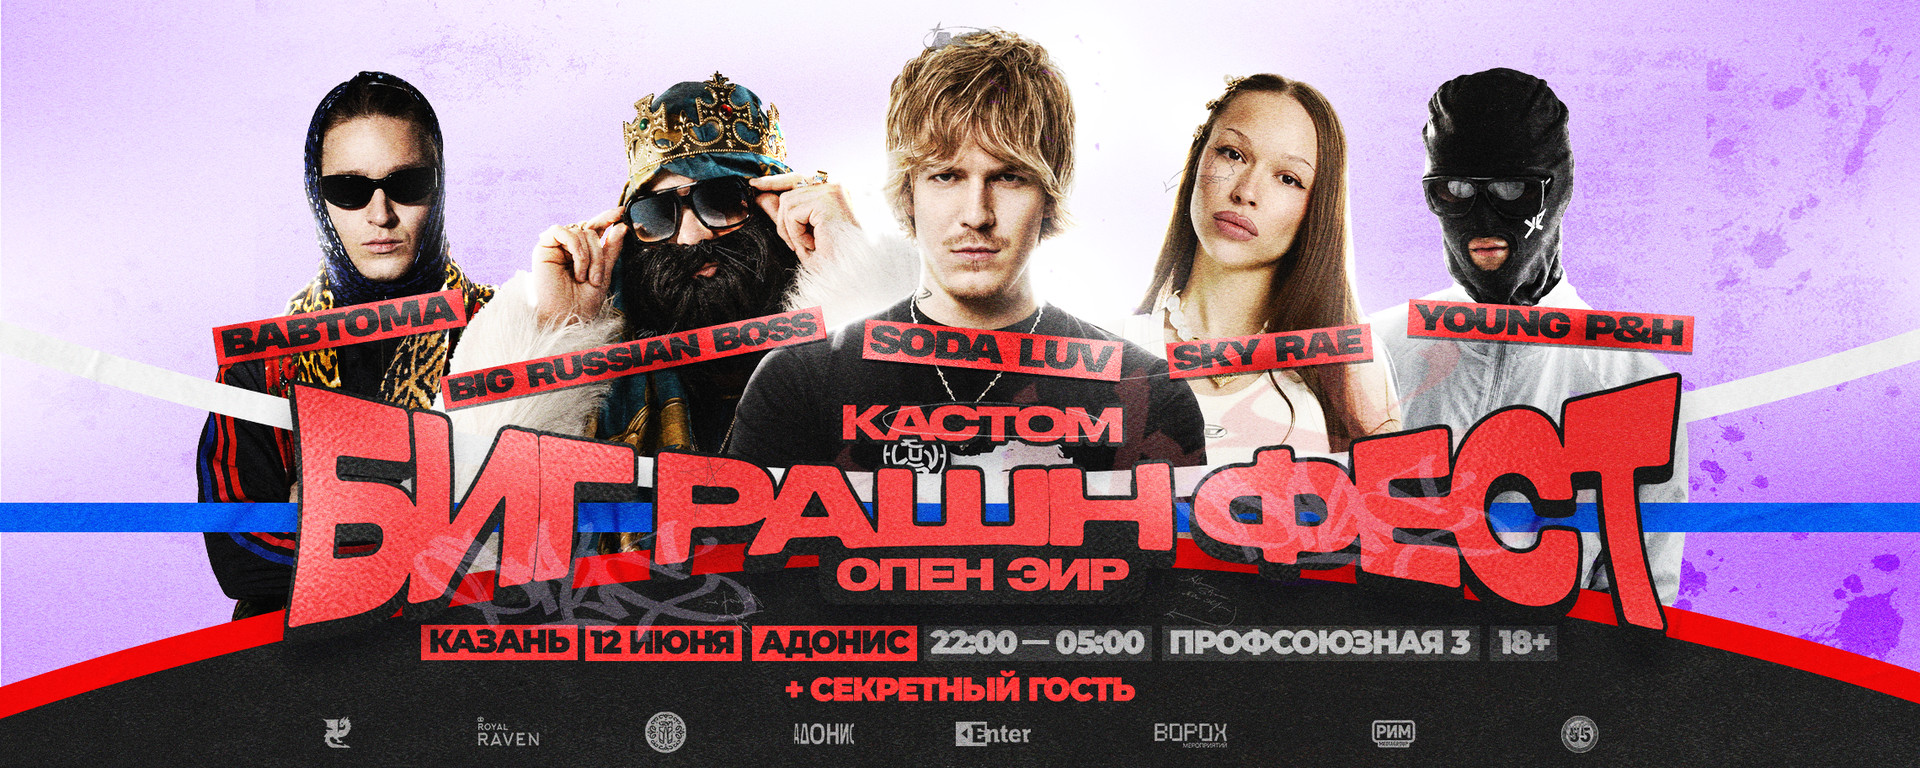
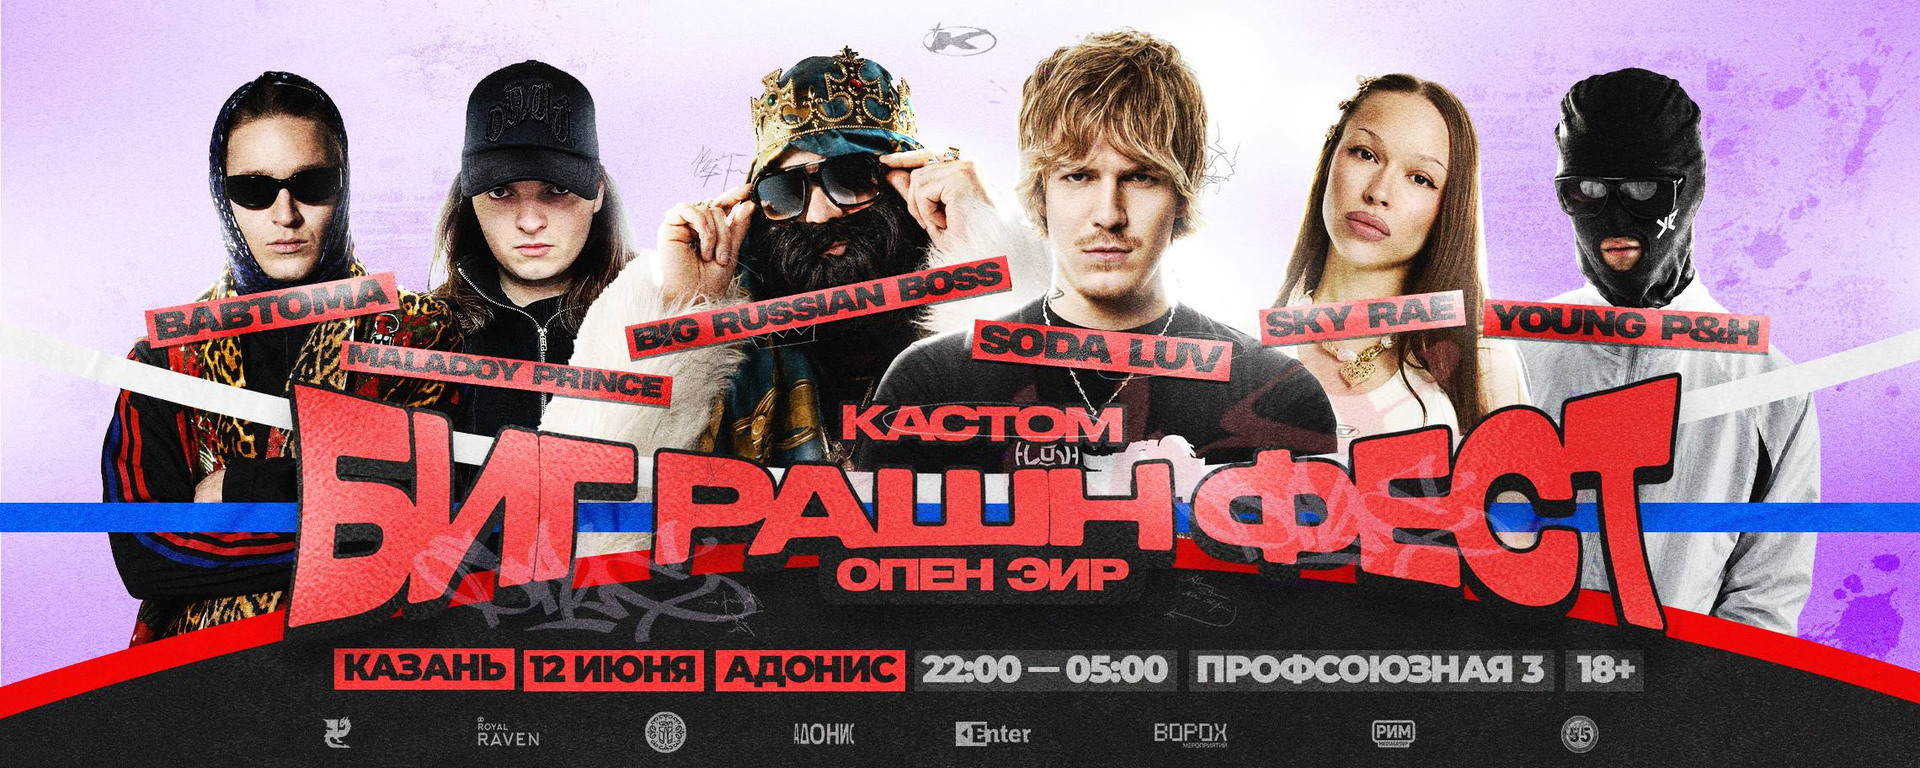
Update hero posters

diff --git a/index.html b/index.html
@@ -2180,11 +2180,11 @@
 
   <div class="hero-img-wrap">
     <picture>
-      <source media="(max-width: 480px)" srcset="assets/brf-poster-mobile-828.jpg?v=20260605214846">
-      <source media="(max-width: 768px)" srcset="assets/brf-poster-mobile.jpg?v=20260605214846">
-      <source media="(min-width: 1921px)" srcset="assets/brf-poster-3840.jpg?v=20260605214846">
-      <source media="(min-width: 769px)" srcset="assets/brf-poster-1920.jpg?v=20260605214846">
-      <img src="assets/brf-poster.jpg?v=20260605214846" alt="Big Russian Boss" loading="eager" fetchpriority="high">
+      <source media="(max-width: 480px)" srcset="assets/brf-poster-mobile-828.jpg?v=20260607045601">
+      <source media="(max-width: 768px)" srcset="assets/brf-poster-mobile.jpg?v=20260607045601">
+      <source media="(min-width: 1921px)" srcset="assets/brf-poster-3840.jpg?v=20260607045601">
+      <source media="(min-width: 769px)" srcset="assets/brf-poster-1920.jpg?v=20260607045601">
+      <img src="assets/brf-poster.jpg?v=20260607045601" alt="BIG RUSSIAN FEST" loading="eager" fetchpriority="high">
     </picture>
   </div>
 
